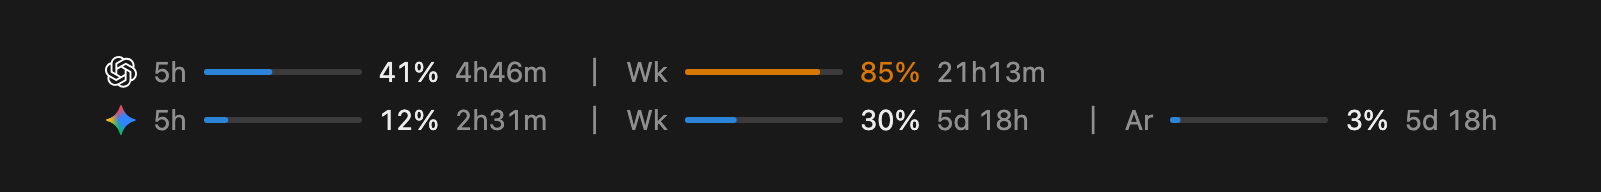
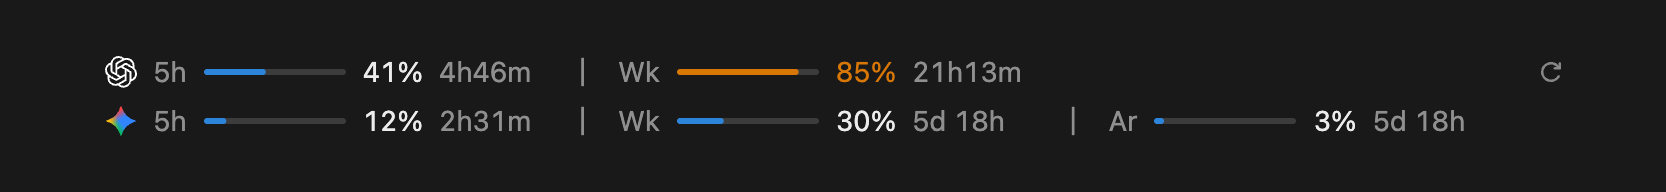
Redraw the README band image for the current band
The image showed 80px bars and no refresh button. It now draws the 72px bars
and the refresh button at the right end of the first row, using the same bar,
logo and refresh SVGs the band draws. The alt text in both READMEs mentions
the button.

diff --git a/README.ja.md b/README.ja.md
@@ -4,7 +4,7 @@
 
 Claude Code で作業しながら、Codex と Antigravity の使用量の上限を確認できます。この mod はプロンプトの上に小さな帯を追加し、各上限の使用量とリセットまでの時間を表示します。
 
-![ダークモードの Claude Code デスクトップアプリに表示された帯。ChatGPT Codex の行と Antigravity の Gemini の行がある](docs/band.png)
+![ダークモードの Claude Code デスクトップアプリに表示された帯。ChatGPT Codex の行と Antigravity の Gemini の行があり、1行目の右端に更新ボタンがある](docs/band.png)
 
 *サンプル値を使った、mod 自身のグラフィックによるダークモードのイメージ図です（表示は英語）。*
 

diff --git a/README.md b/README.md
@@ -4,7 +4,7 @@ English | [日本語](README.ja.md)
 
 See your Codex and Antigravity usage limits while you work in Claude Code. This mod adds a small band above the prompt with how much of each limit you have used and when it resets.
 
-![The band on the Claude Code desktop app in dark mode, with one row for ChatGPT Codex and one for Gemini in Antigravity](docs/band.png)
+![The band on the Claude Code desktop app in dark mode, with one row for ChatGPT Codex and one for Gemini in Antigravity, and the refresh button at the right end of the first row](docs/band.png)
 
 *Illustration with example values, drawn from the mod's own graphics in dark mode.*
 
